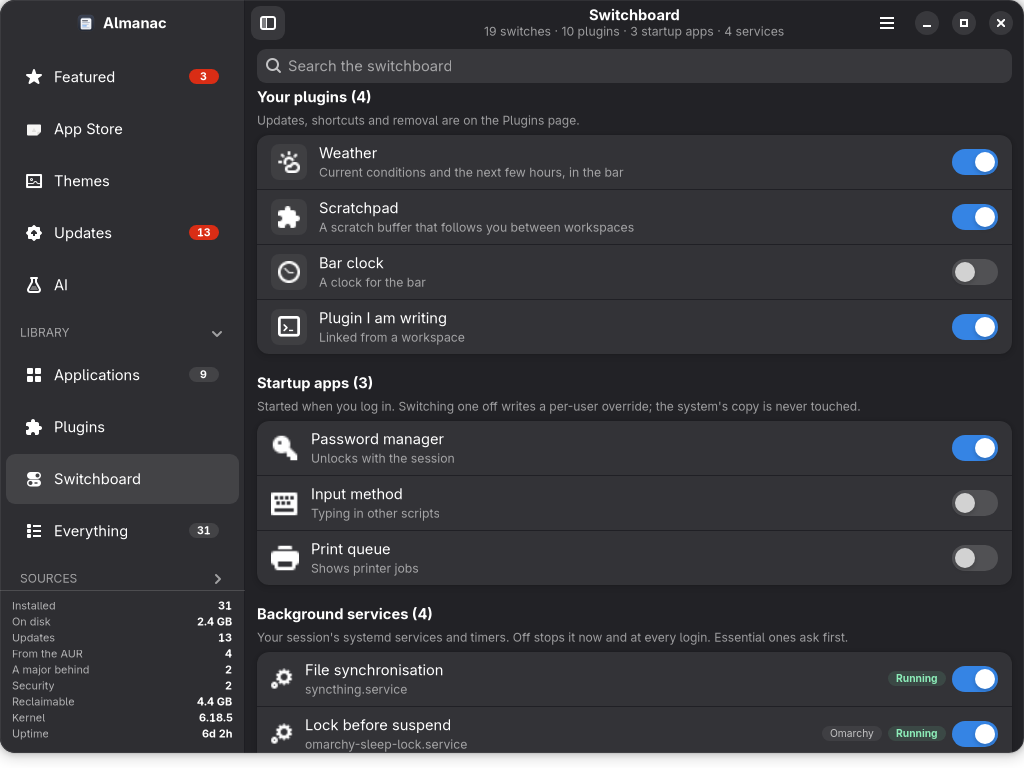
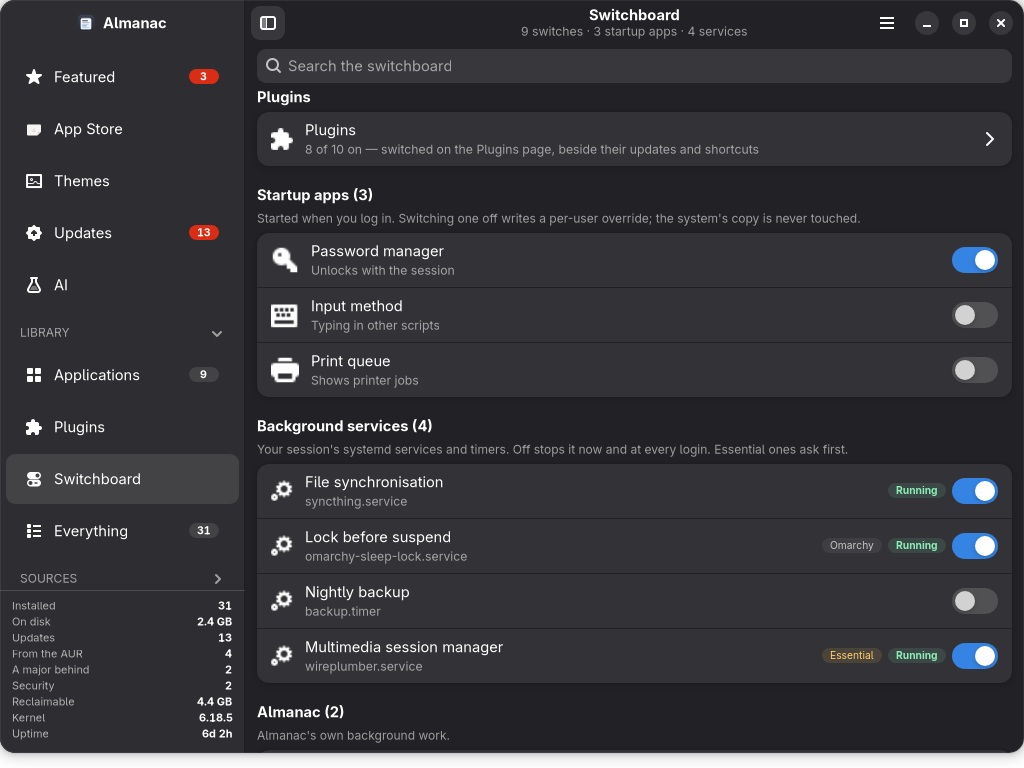
Switchboard: plugins are switched on the Plugins page
The Switchboard repeated all 47 plugin switches from the Plugins page,
which made it half duplicate and buried the startup apps and services
that have no other home. Plugins are now switched only on the Plugins
page, beside their state, updates and shortcuts; the Switchboard has one
row saying how many are on, which opens it.

Demo mode counts its synthetic plugins for that row rather than asking
omarchy, so a screenshot does not show a real setup.

diff --git a/app.py b/app.py
@@ -3878,8 +3878,10 @@ class AlmanacWindow(Adw.ApplicationWindow):
 
     # ---- switchboard -------------------------------------------------------
     def _build_switchboard(self):
-        """Everything with an on/off, in one place: plugins, startup apps,
-        background services and Almanac's own background work."""
+        """The on/offs with no other home: startup apps, background services
+        and Almanac's own background work. Plugins are switched on the
+        Plugins page, beside their state and actions; here they get one row
+        that says how many are on and goes there."""
         page = Gtk.Box(orientation=Gtk.Orientation.VERTICAL)
         self.switch_body = Gtk.Box(orientation=Gtk.Orientation.VERTICAL,
                                    spacing=20, margin_start=12, margin_end=12,
@@ -3895,18 +3897,13 @@ class AlmanacWindow(Adw.ApplicationWindow):
         self._summarize(_("Reading what can be switched…"), "switchboard")
 
         def work():
-            found = plugins_mod.installed(fetch=False)
+            on = plugins_mod.enabled()
             starts = autostart.entries()
             units = services.services()
-            try:
-                listings = {c.id: c for c in
-                            getattr(self, "_plugins", None) or store_mod.catalog()}
-            except Exception:                           # noqa: BLE001
-                listings = {}
-            GLib.idle_add(self._switchboard_show, found, starts, units, listings)
+            GLib.idle_add(self._switchboard_show, on, starts, units)
         threading.Thread(target=work, daemon=True).start()
 
-    def _switchboard_show(self, found, starts, units, listings=None):
+    def _switchboard_show(self, on, starts, units):
         while (child := self.switch_body.get_first_child()) is not None:
             self.switch_body.remove(child)
         self._switch_rows = []
@@ -3920,14 +3917,23 @@ class AlmanacWindow(Adw.ApplicationWindow):
                 self._switch_rows.append((row, text))
             self.switch_body.append(box)
 
-        # Yours first and the 37-odd built-ins last, so startup apps and
-        # services are not buried under the shell's own parts.
-        listings = listings or {}
-        section(_("Your plugins"),
-                _("Updates, shortcuts and removal are on the Plugins page."),
-                [(self._switch_plugin_row(i, listings.get(i.id)),
-                  f"{i.name} {i.id} {i.description}")
-                 for i in found if not i.built_in])
+        # Plugins: one row, not 47 duplicated from their own page.
+        if on:
+            row = self._plain(
+                title=_("Plugins"),
+                subtitle=f"{sum(on.values())} of {len(on)} on — switched on the "
+                         f"Plugins page, beside their updates and shortcuts")
+            row.add_prefix(Gtk.Image(icon_name="application-x-addon-symbolic",
+                                     pixel_size=22, valign=Gtk.Align.CENTER))
+            row.add_suffix(Gtk.Image(icon_name="go-next-symbolic",
+                                     valign=Gtk.Align.CENTER))
+            row.set_activatable(True)
+            row.connect("activated", lambda _r: self._select_category("plugins"))
+            box = self._section(_("Plugins"))
+            box._rows.append(row)
+            self.switch_body.append(box)
+            self._switch_rows.append((box, "plugins"))
+
         section(_("Startup apps"),
                 _("Started when you log in. Switching one off writes a "
                   "per-user override; the system's copy is never touched."),
@@ -3941,14 +3947,10 @@ class AlmanacWindow(Adw.ApplicationWindow):
         section(_("Almanac"),
                 _("Almanac's own background work."),
                 self._switch_almanac_rows())
-        section(_("Built-in plugins"),
-                _("The parts of Omarchy's shell that can be switched off."),
-                [(self._switch_plugin_row(i), f"{i.name} {i.id} {i.description}")
-                 for i in found if i.built_in])
 
-        n = len(self._switch_rows)
-        self._summarize(f"{n} switches · {len(found)} plugins · {len(starts)} "
-                        f"startup apps · {len(units)} services", "switchboard")
+        switches = len(starts) + len(units) + 2
+        self._summarize(f"{switches} switches · {len(starts)} startup apps · "
+                        f"{len(units)} services", "switchboard")
         self._switchboard_filter(self.search.get_text())
         return False
 
@@ -4030,15 +4032,6 @@ class AlmanacWindow(Adw.ApplicationWindow):
         row.add_suffix(switch)
         row.set_activatable_widget(switch)
         return row
-
-    def _switch_plugin_row(self, i, listing=None):
-        def apply(on):
-            subprocess.run(plugins_mod.toggle_argv(i.id, on), capture_output=True,
-                           text=True, timeout=60)
-            return plugins_mod.enabled().get(i.id)
-        return self._switch_row(
-            i.name, i.description or i.id, i.enabled, apply,
-            prefix=self._plugin_logo(i, listing), sensitive=i.can_disable)
 
     def _switch_autostart_row(self, e):
         icon = Gtk.Image(pixel_size=28, valign=Gtk.Align.CENTER)

diff --git a/plugins.py b/plugins.py
@@ -331,6 +331,9 @@ def github_owner(url: str) -> str:
 
 def enabled() -> dict[str, bool]:
     """id -> enabled, from Omarchy's own list."""
+    import demo
+    if demo.active():
+        return {i.id: i.enabled for i in demo.plugins()}
     try:
         out = subprocess.run(["omarchy", "plugin", "list", "--json"],
                              capture_output=True, text=True, timeout=25).stdout

diff --git a/test_app.py b/test_app.py
@@ -1349,6 +1349,7 @@ class DemoModeHidesTheMachine(unittest.TestCase):
              mock.patch.object(plugins.subprocess, "run",
                                side_effect=AssertionError("asked omarchy")):
             self.assertTrue(plugins.installed())
+            self.assertTrue(plugins.enabled())
 
     def test_history_is_synthetic(self):
         import history

diff --git a/README.md b/README.md
@@ -298,11 +298,12 @@ as if it had not been updated.
 
 <img src="docs/screenshots/switchboard.png" alt="Switchboard" width="820">
 
-Plugins, the apps that start when you log in, your session's background
-services, and Almanac's own background work — each with a switch, and each
-switched the standard way: `omarchy plugin enable/disable`, a per-user
-`Hidden=true` override in `~/.config/autostart` (the system's copy is never
-touched), and `systemctl --user enable/disable --now`. Every switch moves only
+The apps that start when you log in, your session's background services, and
+Almanac's own background work — each with a switch, switched the standard
+way: a per-user `Hidden=true` override in `~/.config/autostart` (the system's
+copy is never touched) and `systemctl --user enable/disable --now`. Plugins
+are switched on the Plugins page, beside their updates and shortcuts; the
+Switchboard shows how many are on and links there. Every switch moves only
 once the change holds. Session plumbing — PipeWire, the portals, the keyring —
 is marked essential and asks first, saying what would stop working; services
 started on demand by something else are not offered, since their switch could
